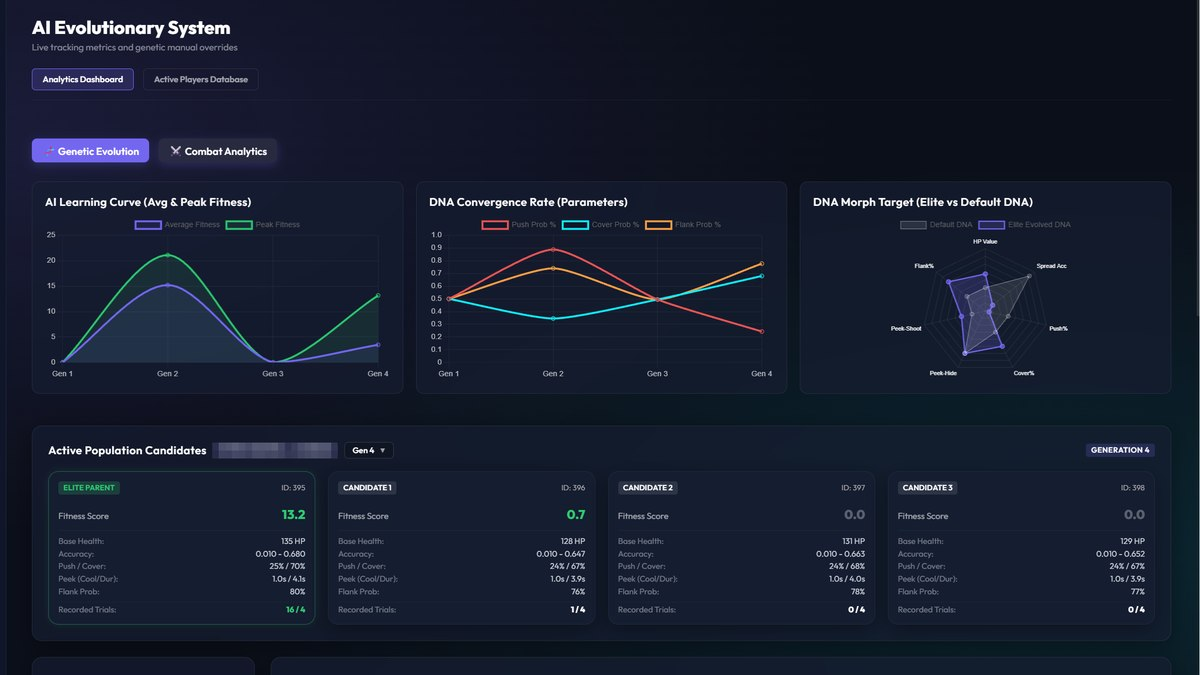
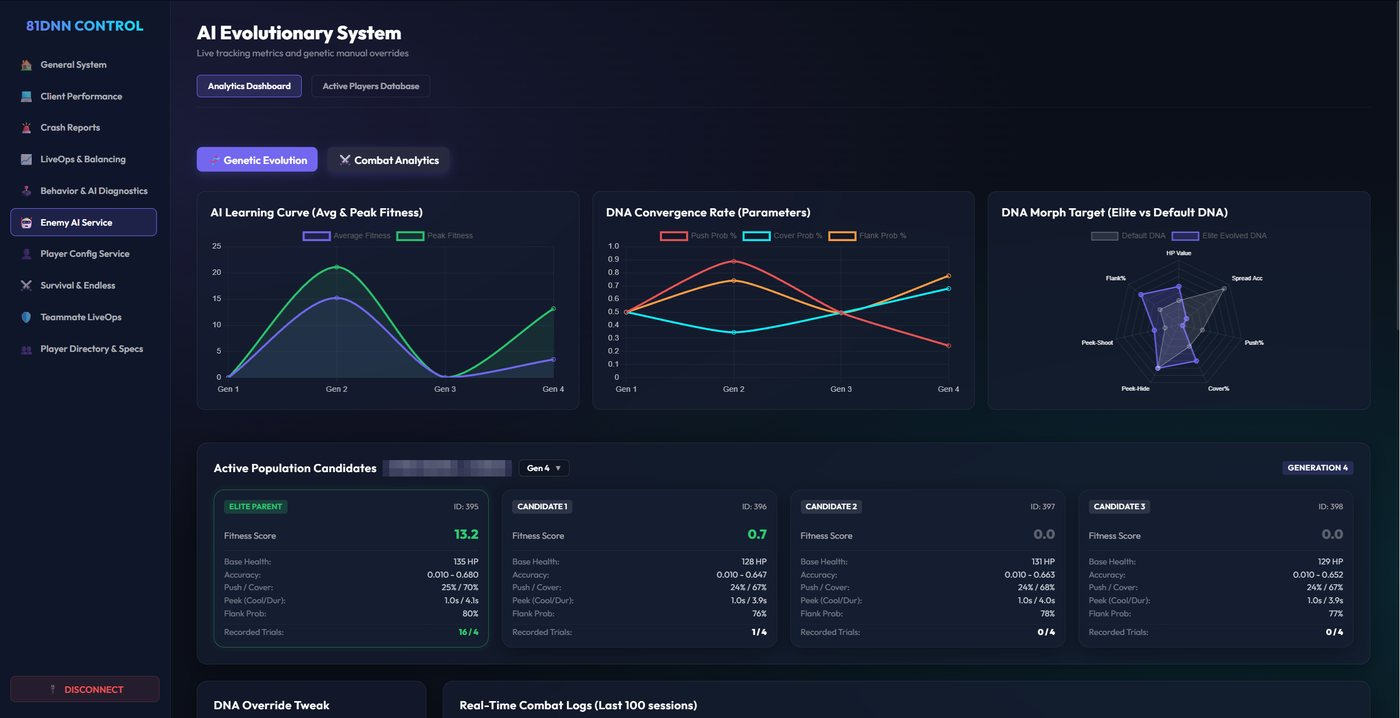
feat: show the whole AI dashboard, click through to full resolution

diff --git a/index.html b/index.html
@@ -114,10 +114,11 @@
             <div><dt>Source</dt><dd>Private — walkthrough on request</dd></div>
           </dl>
         </div>
-        <div class="proj-thumb thumb-169">
-          <img src="assets/ai-service.jpg" width="1000" height="562" loading="lazy"
-               alt="AI balancing dashboard — learning curve, DNA convergence, and the candidate population with fitness scores" />
-        </div>
+        <a class="proj-thumb thumb-wide" href="assets/ai-service-full.jpg" target="_blank" rel="noopener"
+           title="Open the dashboard screenshot at full resolution">
+          <img src="assets/ai-service.jpg" width="1400" height="718" loading="lazy"
+               alt="AI balancing dashboard — learning curve, DNA convergence, DNA morph target, and the candidate population with fitness scores" />
+        </a>
       </article>
 
       <!-- 03 -->

diff --git a/assets/styles.css b/assets/styles.css
@@ -433,6 +433,7 @@ p:last-child { margin-bottom: 0; }
   overflow: hidden;
 }
 .proj-thumb.thumb-169 { aspect-ratio: 16 / 9; }
+.proj-thumb.thumb-wide { aspect-ratio: 2561 / 1314; }
 .proj-thumb img {
   width: 100%;
   height: 100%;
